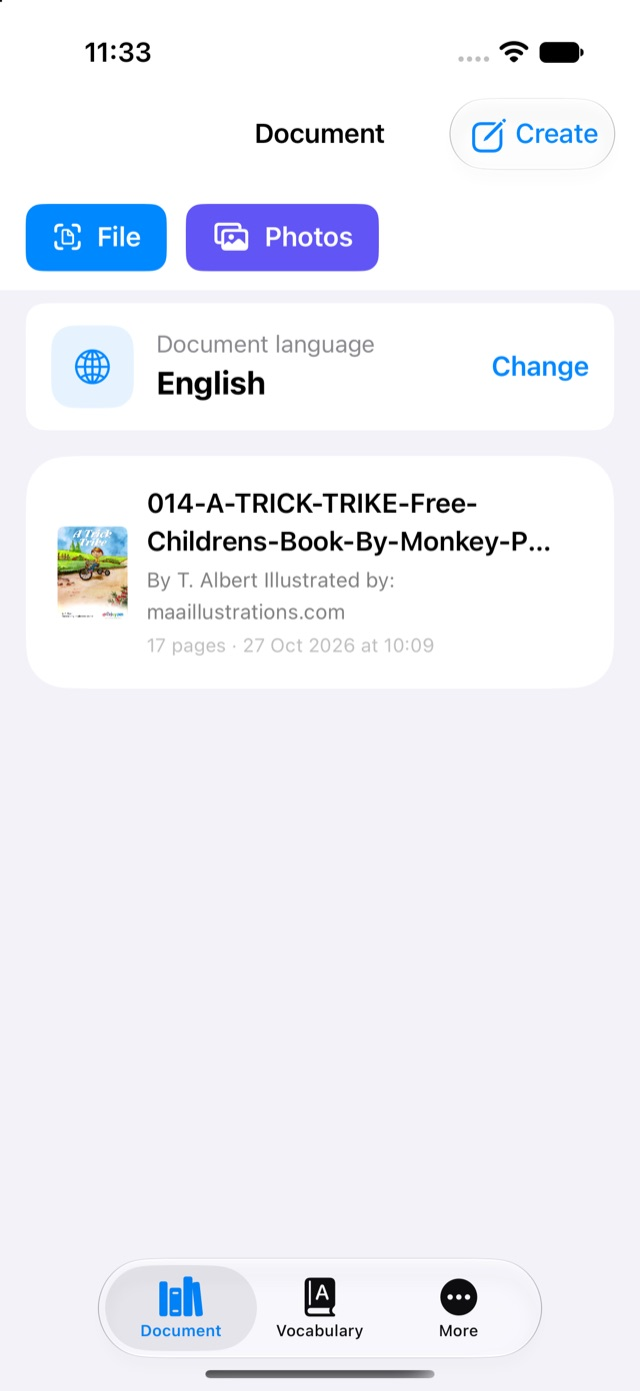
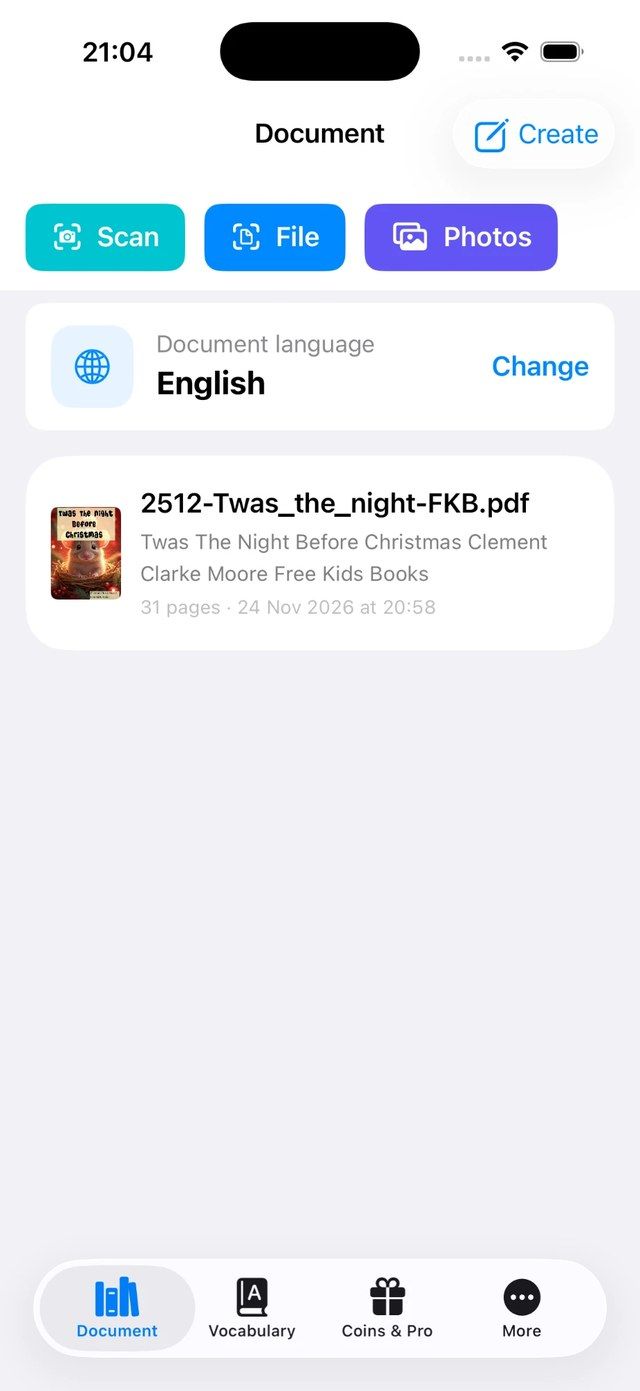
Update document

diff --git a/RepeatReader/marketing/learn.html b/RepeatReader/marketing/learn.html
@@ -40,7 +40,7 @@
         <ul>
           <li><b>Tap a word</b>, or <b>drag across several</b> to save a whole phrase or sentence.</li>
           <li><b>Translate a full page</b> into 14+ languages — your choice is remembered.</li>
-          <li><b>Organized for you.</b> Lists are grouped by day; swipe to rename or delete.</li>
+          <li><b>Organized for you.</b> Saved lists are grouped by the day you made them; swipe to rename or delete.</li>
         </ul>
       </div>
       <div class="shots three">
@@ -53,9 +53,13 @@
       <div class="copy">
         <h3 style="font-size:1.7rem;letter-spacing:-.02em">2 · Know each word properly</h3>
         <ul>
+          <li><b>Grouped by day.</b> Every day gets one header with the date, how many lists and words it holds, and one coloured segment per list. The newest day is open; older days fold away until you tap them.</li>
+          <li><b>A status on every list.</b> <b>Not started</b> (grey), <b>Learning</b> (orange) once you have answered at least one word correctly, and <b>Reviewed</b> (green) when every word has been answered correctly at least once — in a list review or in Daily Review. A day shows the combined status of its lists.</li>
           <li><b>Meaning in your language</b> plus an example sentence.</li>
           <li><b>Phonetic spelling</b> — IPA for English, Pinyin with tone marks for Chinese.</li>
-          <li><b>Hear every word</b> one at a time, or tap <b>Play All</b> to listen to the whole list.</li>
+          <li><b>Hear every word</b> one at a time, or tap <b>Play All</b> to listen to the whole list. Inside a list, words are grouped by the day you saved them, each day with its own status.</li>
+          <li><b>Edit or delete</b> any word from its detail sheet, and rename a list whenever you like.</li>
+          <li><b>Add your own words.</b> Type a word and edit it later, or import many at once from an Excel/CSV file or a photo of a table.</li>
           <li><b>Import and export.</b> Bring in your own lists, or export a list to a PDF with terms, phonetics and meanings — ready to print.</li>
         </ul>
       </div>
@@ -88,11 +92,14 @@
         <ul>
           <li><b>Streak</b> tracks your current and longest run of daily reviews.</li>
           <li><b>Words mastered</b> — three correct reviews in a row — with a clear SM-2 stage chart: New, Learning, Young, Mastered.</li>
-          <li><b>Home Screen widget</b> shows your streak and words due today; one tap jumps straight into Daily Review.</li>
+<li><b>Study from your Home Screen.</b> The small widget shows your streak and the words due today. The medium and large widgets show your newest list that you have not marked as learned, one word at a time with its pronunciation, meaning and example.</li>
+          <li><b>Move through the words without opening the app.</b> Tap the arrows to go back and forth (they wrap around at either end). Tap <b>Learned</b> and the widget moves on to the next-older list; when every list is learned it says so and offers <b>Study again</b>. Tapping the widget itself jumps straight into Daily Review.</li>
+          <li><b>Learned on the widget is a study aid</b> for deciding what to look at next. A list's Learning and Reviewed status in the app comes from your reviews.</li>
         </ul>
       </div>
       <div class="shots">
         <figure><div class="phone"><img src="images/progress.jpg" alt="Progress and Streak dashboard"></div><figcaption>Progress &amp; Streak</figcaption></figure>
+        <figure><img src="images/widget.png" alt="Home Screen widget showing a word with pronunciation, meaning, example and a Learned button" style="width:100%;height:auto;border-radius:24px;box-shadow:0 18px 40px rgba(20,22,31,.22)"><figcaption>Home Screen widget</figcaption></figure>
       </div>
     </div>
 

diff --git a/RepeatReader/marketing/map.html b/RepeatReader/marketing/map.html
@@ -44,7 +44,7 @@
 
             <li class="tab"><span class="node">📚 Document tab</span>
               <ul>
-                <li class="leaf"><span class="node">Import <small>— PDF / image files · Photos · type or paste</small></span></li>
+                <li class="leaf"><span class="node">Import <small>— Scan · PDF / image files · Photos · type or paste</small></span></li>
                 <li class="leaf"><span class="node">Document language <small>— detected automatically, change anytime</small></span></li>
                 <li class="leaf"><span class="node">Library <small>— covers, page count, date; swipe to delete</small></span></li>
                 <li class="sub"><span class="node">Reader</span>
@@ -85,12 +85,14 @@
                     <li class="leaf"><span class="node">Words mastered · SM-2 stage chart</span></li>
                   </ul>
                 </li>
-                <li class="sub"><span class="node">Saved lists <small>(grouped by day)</small></span>
+                <li class="sub"><span class="node">Saved lists <small>(grouped by day · fold a day · status: Not started / Learning / Reviewed)</small></span>
                   <ul>
                     <li class="leaf"><span class="node">Word detail <small>— IPA / Pinyin, meaning, example</small></span></li>
                     <li class="leaf"><span class="node">Play word · Play All</span></li>
                     <li class="leaf"><span class="node">Review this list</span></li>
-                    <li class="leaf"><span class="node">Import · Export to PDF · Share</span></li>
+                    <li class="leaf"><span class="node">Add word <small>— type, edit later</small></span></li>
+                    <li class="leaf"><span class="node">Import <small>— Excel / CSV file · photo of a table</small></span></li>
+                    <li class="leaf"><span class="node">Export to PDF · Share</span></li>
                   </ul>
                 </li>
               </ul>
@@ -121,8 +123,10 @@
 
             <li class="tab orange"><span class="node">🏠 Home Screen widget</span>
               <ul>
-                <li class="leaf"><span class="node">Streak + words due today <small>— small &amp; medium sizes</small></span></li>
-                <li class="leaf"><span class="node">Tap to jump straight into Daily Review</span></li>
+                <li class="leaf"><span class="node">Small <small>— streak + words due today</small></span></li>
+                <li class="leaf"><span class="node">Medium &amp; large <small>— newest not-yet-learned list: pronunciation, meaning, example</small></span></li>
+                <li class="leaf"><span class="node">Arrows (wrap around) · Learned moves to the next list · Study again</span></li>
+                <li class="leaf"><span class="node">Tap the widget to open Daily Review</span></li>
               </ul>
             </li>
 

diff --git a/RepeatReader/marketing/repeat.html b/RepeatReader/marketing/repeat.html
@@ -49,7 +49,7 @@
         </div>
       </div>
       <div class="shots">
-        <figure><div class="phone"><img src="images/playing.jpg" alt="Repeat control and highlighted sentence while speaking"></div><figcaption>The spoken sentence is highlighted live</figcaption></figure>
+        <figure><div class="phone"><img src="images/reader.jpg" alt="Reader with the Repeat control under the page"></div><figcaption>Repeat sits right under the page</figcaption></figure>
       </div>
     </div>
   </div>
@@ -65,8 +65,7 @@
       <div class="mode"><span class="badge">All</span><h3>Loop the document</h3><p>Moves on to the next page when one finishes, then wraps back to the first page after the last.</p></div>
     </div>
     <div class="shots" style="margin-top:56px">
-      <figure><div class="phone"><img src="images/reader.jpg" alt="Reader with Repeat control set to Page"></div><figcaption>Choose a mode under the page</figcaption></figure>
-      <figure><div class="phone"><img src="images/playing.jpg" alt="Sentence highlighted while playing"></div><figcaption>Follow along sentence by sentence</figcaption></figure>
+      <figure><div class="phone"><img src="images/reader.jpg" alt="Reader with Repeat control set to All"></div><figcaption>Choose a mode under the page</figcaption></figure>
     </div>
   </div>
 </section>

diff --git a/RepeatReader/marketing/index.html b/RepeatReader/marketing/index.html
@@ -39,7 +39,7 @@
     </div>
     <div class="hero-phones">
       <div class="phone"><img src="images/vocab.jpg" alt="Vocabulary tab with Daily Review and saved lists"></div>
-      <div class="phone"><img src="images/playing.jpg" alt="Reader highlighting the sentence being spoken"></div>
+      <div class="phone"><img src="images/reader.jpg" alt="Reader with the Repeat control and the Speak button"></div>
     </div>
   </div>
 </header>
@@ -89,7 +89,7 @@
         <div class="body"><h3>🎧 Listen</h3><p>Import PDFs, photos and text. Natural offline voices, export to audio.</p><span class="go-link">Explore Listen →</span></div>
       </a>
       <a class="tile" href="repeat.html">
-        <div class="thumb"><div class="phone"><img src="images/playing.jpg" alt=""></div></div>
+        <div class="thumb"><div class="phone"><img src="images/reader.jpg" alt=""></div></div>
         <div class="body"><h3>🔁 Repeat</h3><p>Loop a page or a whole document with live sentence highlighting.</p><span class="go-link">Explore Repeat →</span></div>
       </a>
       <a class="tile" href="learn.html">

diff --git a/RepeatReader/marketing/listen.html b/RepeatReader/marketing/listen.html
@@ -66,7 +66,7 @@
       </div>
       <div class="shots">
         <figure><div class="phone"><img src="images/voice.jpg" alt="Voice Setting screen with language, voice, speed and tone"></div><figcaption>Voice, speed &amp; tone</figcaption></figure>
-        <figure><div class="phone"><img src="images/resynth.jpg" alt="Resynthesize audio hint on the reader"></div><figcaption>Fix a bad take in one tap</figcaption></figure>
+        <figure><div class="phone"><img src="images/reader.jpg" alt="Reader with the Resynthesize, Stop and Speak controls"></div><figcaption>Resynthesize a page in one tap</figcaption></figure>
       </div>
     </div>
 
